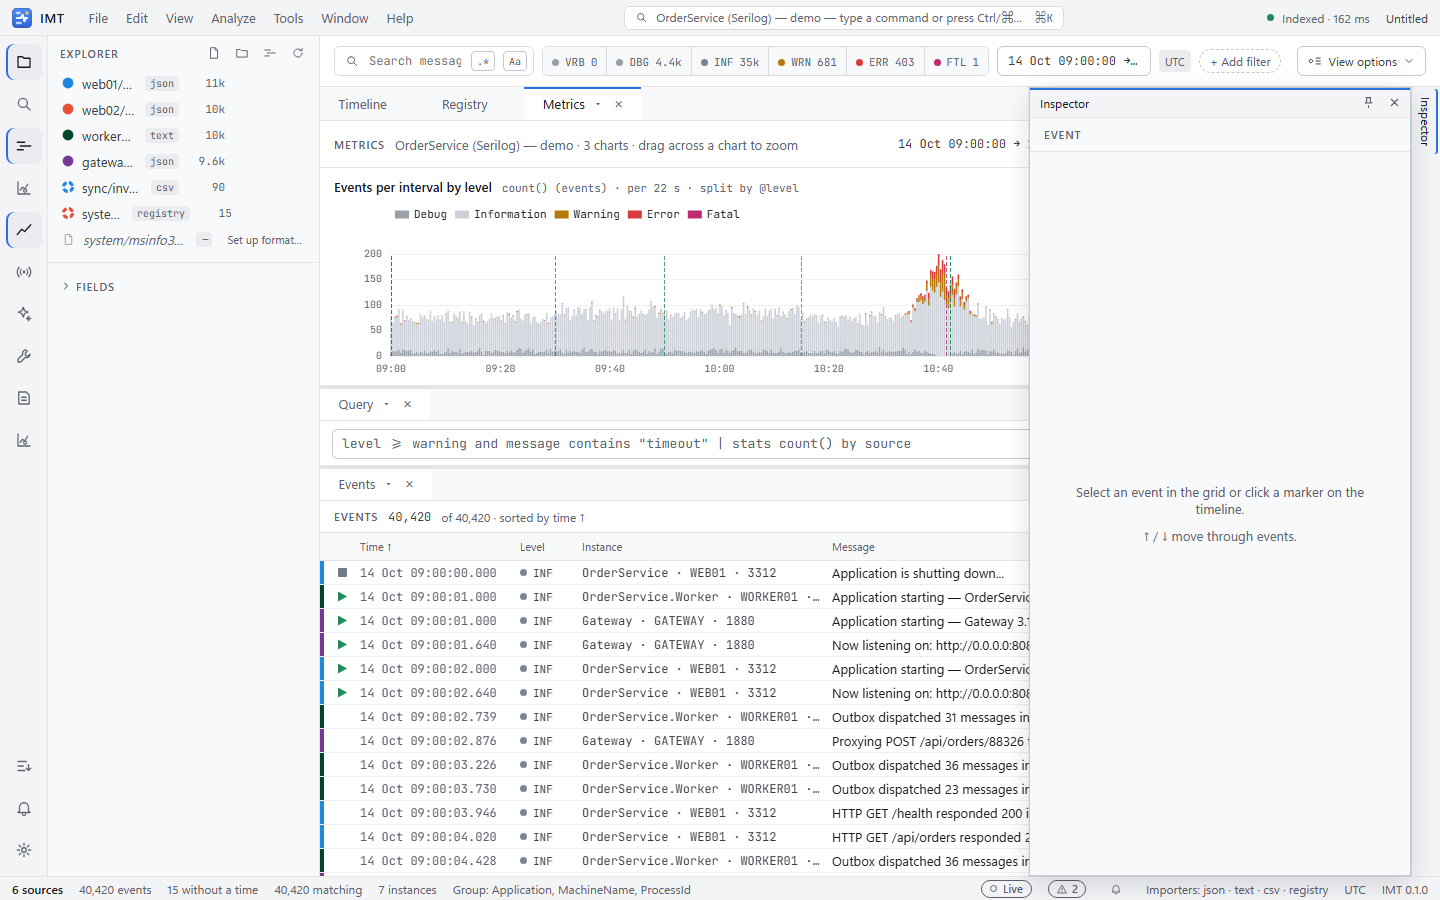
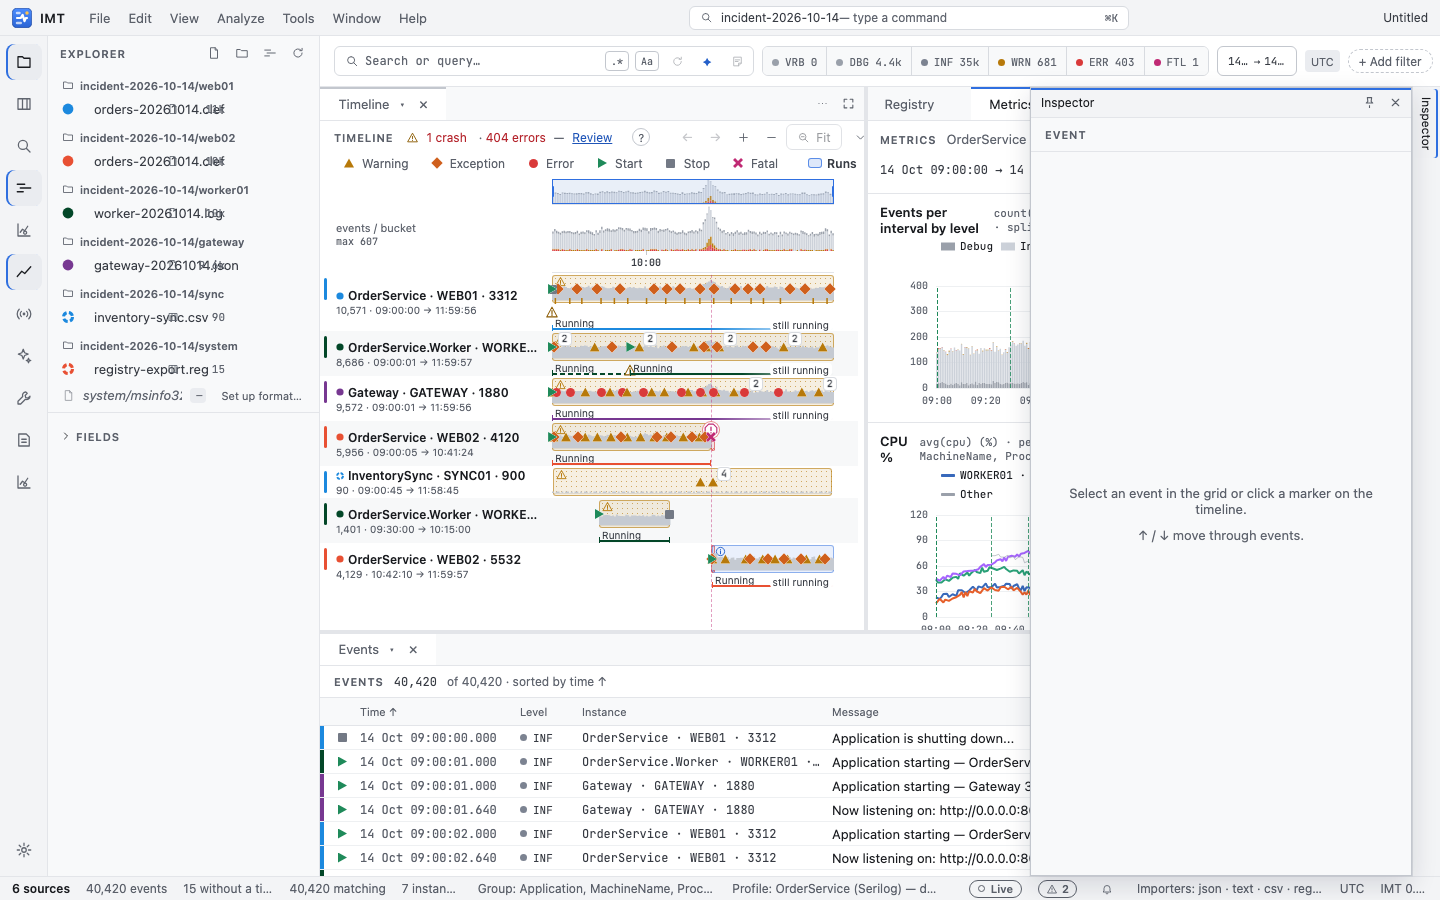
fix(ui): a full-span tool column docks back as a full-height column

diff --git a/app/src/app/dock/dock-placement.ts b/app/src/app/dock/dock-placement.ts
@@ -2,7 +2,7 @@ import { inject, Injectable } from '@angular/core';
 import type { DockviewApi, DockviewGroupPanel, IDockviewPanel } from 'dockview';
 import { ImtView, ViewPosition } from '../extensions/tokens';
 import { DockContext, PANEL, rectOf } from './dock-context';
-import { adjacentNeighbour, atEdge, DockSlot, Point, Rect } from './dock-geometry';
+import { adjacentNeighbour, atEdge, DockSlot, fullSpanEdge, Point, Rect } from './dock-geometry';
 import { DockTarget, GroupBox, hitDockTarget, outsideViewport, targetPreview } from './dock-target';
 import { cancelHintRect, FLOAT_MAX, ghostRect, previewSize, TabDropOutcome, tabDropOutcome } from './float-cue';
 import { AutoHideItem, autoHideReduce } from './auto-hide';
@@ -228,6 +228,12 @@ export class DockPlacement {
       return { referencePanel: reference.id, direction: 'within', index };
     }
     const rect = rectOf(group.element);
+    const root = this.ctx.rootRect();
+    const edge = rect && root ? fullSpanEdge(rect, root) : null;
+    if (edge) {
+      const size = edge === 'bottom' ? rect?.height : rect?.width;
+      return { referencePanel: null, direction: 'within', edge, ...(size ? { size: Math.round(size) } : {}) };
+    }
     const others = api.groups
       .filter((g) => g !== group && g.api.location.type === 'grid' && g.activePanel)
       .map((g) => ({ rect: rectOf(g.element), value: g.activePanel!.id }));
@@ -242,6 +248,12 @@ export class DockPlacement {
     const api = this.ctx.api;
     const view = this.ctx.views.find(id);
     if (!api || !view || api.getPanel(id)) return;
+    if (slot?.edge) {
+      // A full-span column or strip goes back to its window edge (a split against one neighbour would only span that neighbour).
+      const panel = api.addPanel({ id, component: view.id, title: view.title, inactive: options.inactive ?? false, position: { direction: slot.edge === 'bottom' ? 'below' : slot.edge } });
+      if (slot.size) panel.group.api.setSize(slot.edge === 'bottom' ? { height: slot.size } : { width: slot.size });
+      return;
+    }
     const ref = slot?.referencePanel ? api.getPanel(slot.referencePanel) : undefined;
     if (!slot || !ref) {
       this.addView(api, view, options.inactive ?? false, id);

diff --git a/app/src/app/dock/dock-geometry.ts b/app/src/app/dock/dock-geometry.ts
@@ -27,6 +27,8 @@ export interface DockSlot {
   index?: number;
   /** Size of its group, px (width for left/right, height for above/below). */
   size?: number;
+  /** The group was a full-span column (left/right) or strip (bottom) on a window edge: put it back there, not beside one neighbour. */
+  edge?: Side;
 }
 
 function overlap(a0: number, a1: number, b0: number, b1: number): number {
@@ -56,6 +58,23 @@ export function adjacentNeighbour<T>(rect: Rect, others: readonly { rect: Rect; 
 }
 
 export type Side = 'left' | 'right' | 'bottom';
+
+/**
+ * The window edge a group is a full-span column or strip on: touching the left or right edge and as tall as the window,
+ * or touching the bottom edge and as wide as it. Null for a group beside only part of the layout (it has neighbours
+ * to be put back against instead; `adjacentNeighbour` would pick the one sharing the longest edge, which for a
+ * full-height column is just the top row or the bottom one).
+ */
+export function fullSpanEdge(rect: Rect, root: Rect, tolerance = 2): Side | null {
+  const fullHeight = rect.height >= root.height - tolerance;
+  const fullWidth = rect.width >= root.width - tolerance;
+  if (fullHeight && !fullWidth) {
+    if (root.x + root.width - (rect.x + rect.width) <= tolerance) return 'right';
+    if (rect.x - root.x <= tolerance) return 'left';
+  }
+  if (fullWidth && !fullHeight && root.y + root.height - (rect.y + rect.height) <= tolerance) return 'bottom';
+  return null;
+}
 
 /** The window edge (left, right or bottom) a panel is nearest to: where its auto-hide tab goes. */
 export function nearestSide(rect: Rect, root: Rect): Side {

diff --git a/app/src/app/dock/dock-geometry.spec.ts b/app/src/app/dock/dock-geometry.spec.ts
@@ -4,6 +4,7 @@ import {
   compassCells,
   DropPosition,
   edgeCells,
+  fullSpanEdge,
   hitGuide,
   isLayoutTarget,
   nearestSide,
@@ -43,6 +44,32 @@ describe('adjacentNeighbour', () => {
       { rect: r(-100, 10, 100, 80), value: 'long' },
     ];
     expect(adjacentNeighbour(me, others)).toEqual({ value: 'long', direction: 'right' });
+  });
+});
+
+describe('fullSpanEdge', () => {
+  const root = r(0, 0, 1000, 800);
+
+  it('a full-height column on the right (beside a top row and a bottom row) is on the right edge', () => {
+    expect(fullSpanEdge(r(640, 0, 360, 800), root)).toBe('right');
+    // The neighbour with the longest shared edge is only one of the two rows: that is why a column needs its own rule.
+    const rows = [
+      { rect: r(0, 0, 640, 300), value: 'timeline' },
+      { rect: r(0, 300, 640, 500), value: 'events' },
+    ];
+    expect(adjacentNeighbour(r(640, 0, 360, 800), rows)?.value).toBe('events');
+  });
+
+  it('a full-height column on the left and a full-width strip at the bottom', () => {
+    expect(fullSpanEdge(r(0, 0, 270, 800), root)).toBe('left');
+    expect(fullSpanEdge(r(0, 560, 1000, 240), root)).toBe('bottom');
+  });
+
+  it('is null for a group beside only part of the layout, for the whole window and for a strip at the top', () => {
+    expect(fullSpanEdge(r(640, 0, 360, 300), root)).toBeNull();
+    expect(fullSpanEdge(r(300, 0, 360, 800), root)).toBeNull();
+    expect(fullSpanEdge(r(0, 0, 1000, 800), root)).toBeNull();
+    expect(fullSpanEdge(r(0, 0, 1000, 300), root)).toBeNull();
   });
 });
 

diff --git a/app/e2e/popout.e2e.ts b/app/e2e/popout.e2e.ts
@@ -66,6 +66,11 @@ test.describe('pop-out windows', () => {
     const inspector = (await page.locator('imt-inspector').boundingBox())!;
     const documents = (await groupOf(page, 'Registry').boundingBox())!;
     expect(inspector.x).toBeGreaterThanOrEqual(documents.x + documents.width - 2);
+    // A full-height column, as tall as the timeline over the events grid.
+    const timeline = (await page.locator('imt-timeline-panel').boundingBox())!;
+    const grid = (await page.locator('imt-events-grid').boundingBox())!;
+    expect(inspector.y).toBeLessThanOrEqual(timeline.y + 2);
+    expect(inspector.y + inspector.height).toBeGreaterThanOrEqual(grid.y + grid.height - 2);
   });
 
   test('closing the pop-out window docks the panel back; it is never lost', async ({ page, context }) => {

diff --git a/app/e2e/dock-vs.e2e.ts b/app/e2e/dock-vs.e2e.ts
@@ -136,6 +136,12 @@ test.describe('VS-style docking', () => {
         return inspector.x - (timeline.x + timeline.width);
       })
       .toBeGreaterThanOrEqual(-2);
+    // A full-height column again (as tall as the timeline over the events), not a split beside the top row only.
+    const column = await box(page, 'imt-inspector');
+    const top = await box(page, 'imt-timeline-panel');
+    const grid = await box(page, 'imt-events-grid');
+    expect(column.y).toBeLessThanOrEqual(top.y + 2);
+    expect(column.y + column.height).toBeGreaterThanOrEqual(grid.y + grid.height - 2);
   });
 
   test('the auto-hide command toggles the active tool window', async ({ page }) => {
